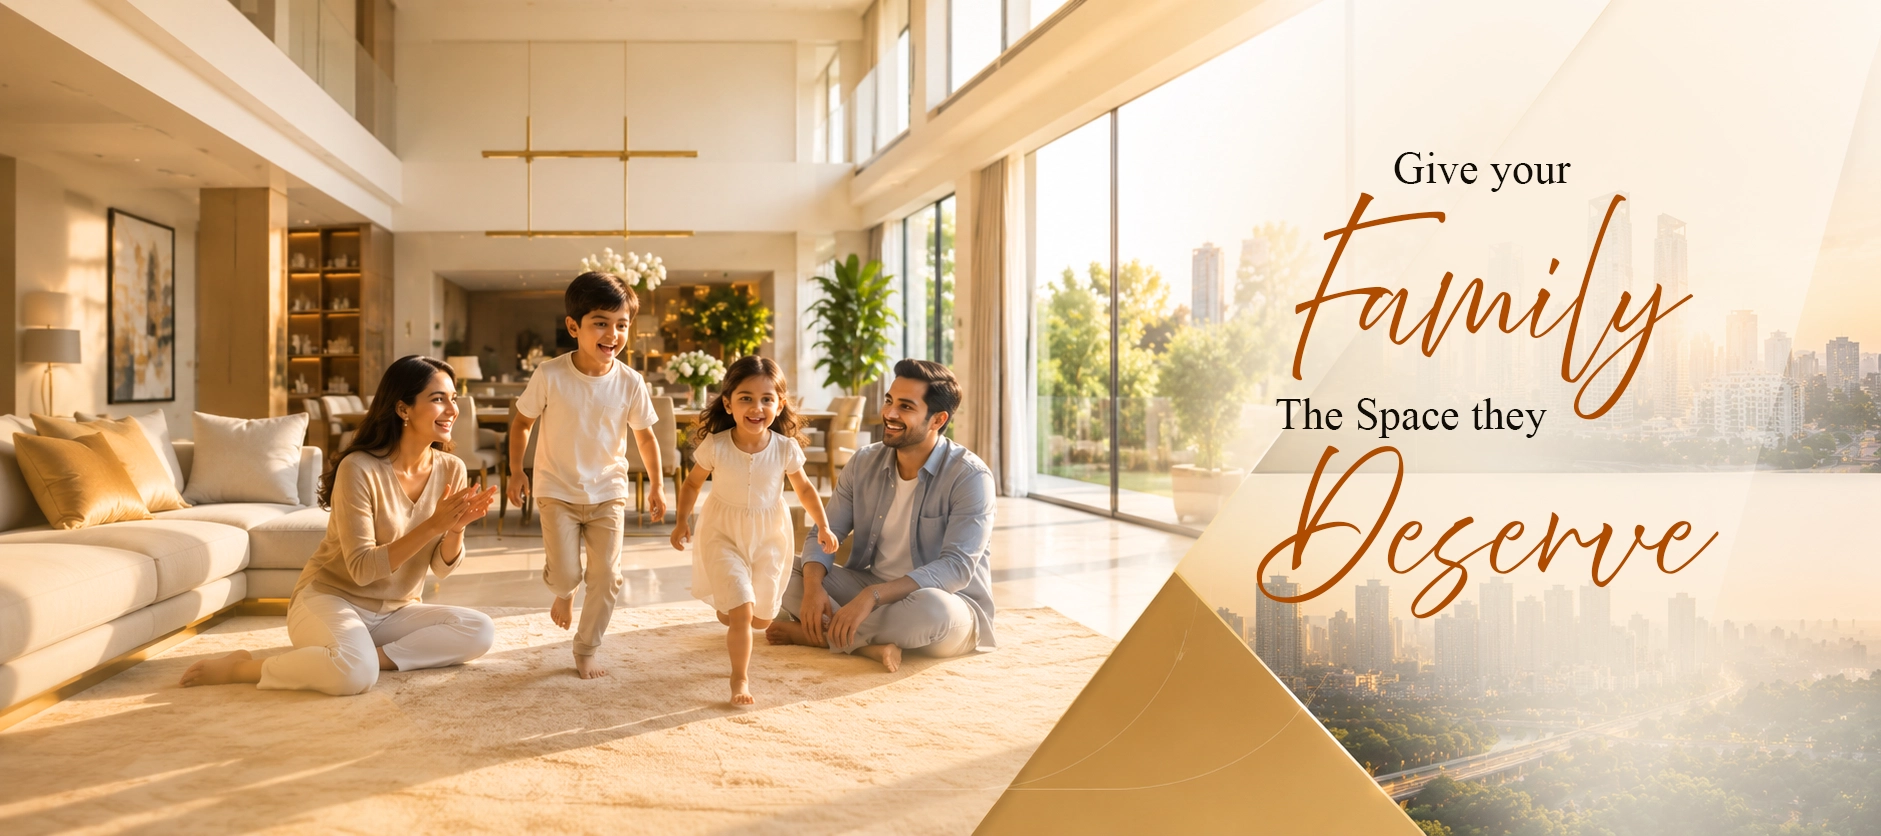
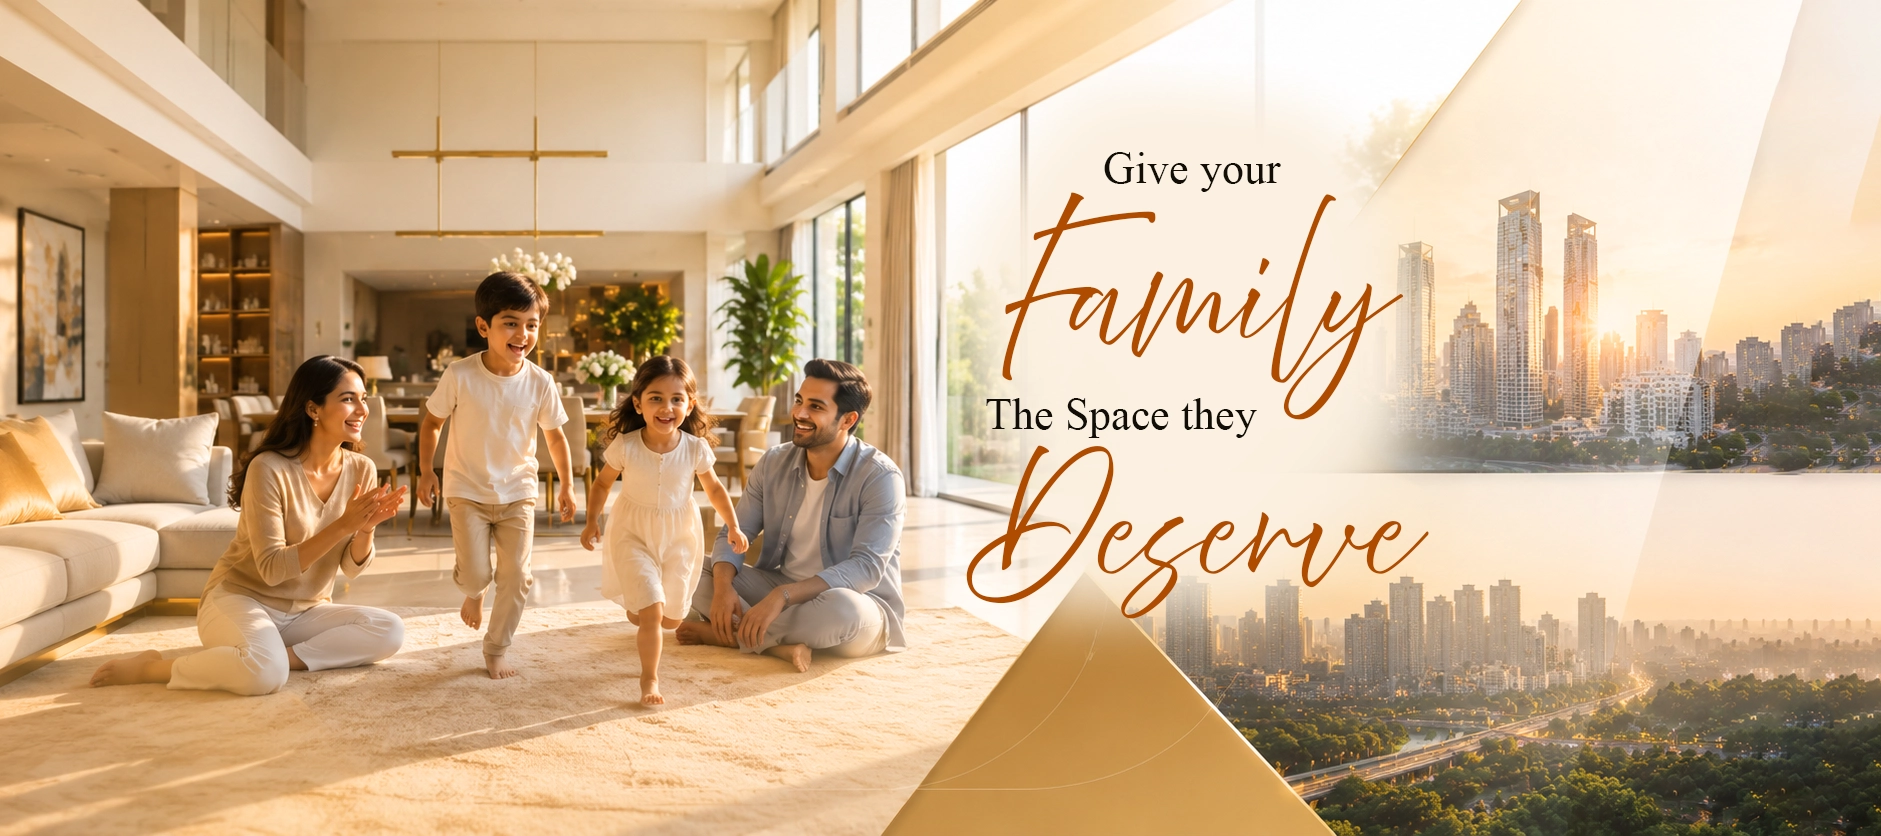
PAGE UPDATE

diff --git a/public/js/data/aboutData.js b/public/js/data/aboutData.js
@@ -41,18 +41,18 @@ export const aboutValues = [
 // ---------- Team Members ----------
 export const aboutTeam = [
     {
-        image: "img/managers/satish_sir.webp",
+        image: "img/managers/suman_mam.webp",
         name: "Suman Bhakuni",
         role: "Founder & Director",
-        bio: "Leading real estate sales with 15+ years of industry expertise.",
+        bio: "Driving trusted real estate sales with a focus on transparency.",
         linkedin: "#",
         instagram: "#",
     },
     {
-        image: "img/managers/suman_mam.webp",
+        image: "img/managers/satish_sir.webp",
         name: "Satish Ashok Rathod",
         role: "Co-Founder & Director",
-        bio: "Driving trusted real estate sales with a focus on transparency.",
+        bio: "Leading real estate sales with 15+ years of industry expertise.",
         linkedin: "#",
         instagram: "#",
     },
@@ -101,15 +101,15 @@ export const galleryItems = [
         title: "Sophisticated Living",
         description: "Curated properties offering the perfect blend of comfort and elegance.",
     },
-        {
+    {
         image: "./img/gallery/balmoral_hillside_1.webp",
         title: "Sophisticated Living",
         description: "Curated properties offering the perfect blend of comfort and elegance.",
-    },    {
+    }, {
         image: "./img/gallery/balmoral_hillside_1.webp",
         title: "Sophisticated Living",
         description: "Curated properties offering the perfect blend of comfort and elegance.",
-    },    {
+    }, {
         image: "./img/gallery/balmoral_hillside_1.webp",
         title: "Sophisticated Living",
         description: "Curated properties offering the perfect blend of comfort and elegance.",

diff --git a/public/gallery.html b/public/gallery.html
@@ -10,6 +10,7 @@
     <link rel="preconnect" href="https://fonts.gstatic.com" crossorigin>
     <link href="https://fonts.googleapis.com/css2?family=Inter:wght@300;400;500;600;700;800;900&family=Playfair+Display:wght@400;500;600;700;800;900&display=swap" rel="stylesheet">
     <script src="https://cdn.jsdelivr.net/npm/@tailwindcss/browser@4"></script>
+    <link rel="stylesheet" href="https://cdn.jsdelivr.net/npm/swiper@11/swiper-bundle.min.css">
     <link rel="stylesheet" href="https://cdnjs.cloudflare.com/ajax/libs/font-awesome/6.5.1/css/all.min.css">
     <link rel="stylesheet" href="./css/style.css">
     <link rel="modulepreload" href="./js/components/galleryPage/galleryPage.js">
@@ -45,6 +46,8 @@
             </section>
         </main>
 
+        <div id="gallery-carousel"></div>
+
         <div id="gallery-lightbox" class="gallery-lightbox fixed inset-0 z-[100] hidden min-h-screen items-center justify-center bg-slate-950/95 p-4 sm:p-8" role="dialog" aria-modal="true" aria-label="Gallery image preview">
             <button id="lightbox-close" class="absolute right-5 top-5 flex h-11 w-11 items-center justify-center rounded-full border border-white/20 text-white transition hover:border-amber-400 hover:text-amber-400" type="button" aria-label="Close image preview">
                 <i class="fa-solid fa-xmark"></i>
@@ -62,6 +65,7 @@
         <div id="footer"></div>
     </div>
 
+    <script src="https://cdn.jsdelivr.net/npm/swiper@11/swiper-bundle.min.js"></script>
     <script type="module" src="./js/components/galleryPage/galleryPage.js"></script>
     <script>
         const fadeObserver = new IntersectionObserver((entries) => {

diff --git a/public/js/components/gallery/gallery.js b/public/js/components/gallery/gallery.js
@@ -6,12 +6,6 @@ export function initGalleryCarousel({
 
     if (!container) return;
 
-    const totalItems = galleryItems.length;
-    let currentIndex = 0;
-
-    // Duplicate items for infinite carousel effect
-    const duplicatedItems = [...galleryItems, ...galleryItems];
-
     const swiperHTML = `
         <section class="py-10 bg-slate-50">
             <div class="max-w-[1700px] px-6 lg:px-12">
@@ -21,7 +15,7 @@ export function initGalleryCarousel({
                     <div class="overflow-hidden rounded-3xl shadow-2xl border border-slate-200">
                         <div class="swiper gallery-swiper h-[300px] md:h-[500px]">
                             <div class="swiper-wrapper">
-                                ${duplicatedItems.map((item, idx) => `
+                                ${galleryItems.map((item) => `
                                     <div class="swiper-slide">
                                         <img
                                             src="${item.image}"

diff --git a/public/js/components/galleryPage/galleryPage.js b/public/js/components/galleryPage/galleryPage.js
@@ -3,6 +3,7 @@ import { navbarData } from "../../data/navbarData.js";
 import { galleryItems } from "../../data/aboutData.js";
 import { initFooter } from "../footer/footer.js";
 import { initEnquiryPopup } from "../enquiryPopup/enquiryPopup.js";
+import { initGalleryCarousel } from "../gallery/gallery.js";
 
 function renderGallery(items) {
     const container = document.getElementById("gallery-grid");
@@ -64,5 +65,9 @@ function renderGallery(items) {
 
 initNavbar({ containerId: "navbar", data: navbarData });
 renderGallery(galleryItems);
+initGalleryCarousel({
+    containerId: "gallery-carousel",
+    galleryItems,
+});
 initFooter("footer");
 initEnquiryPopup();
